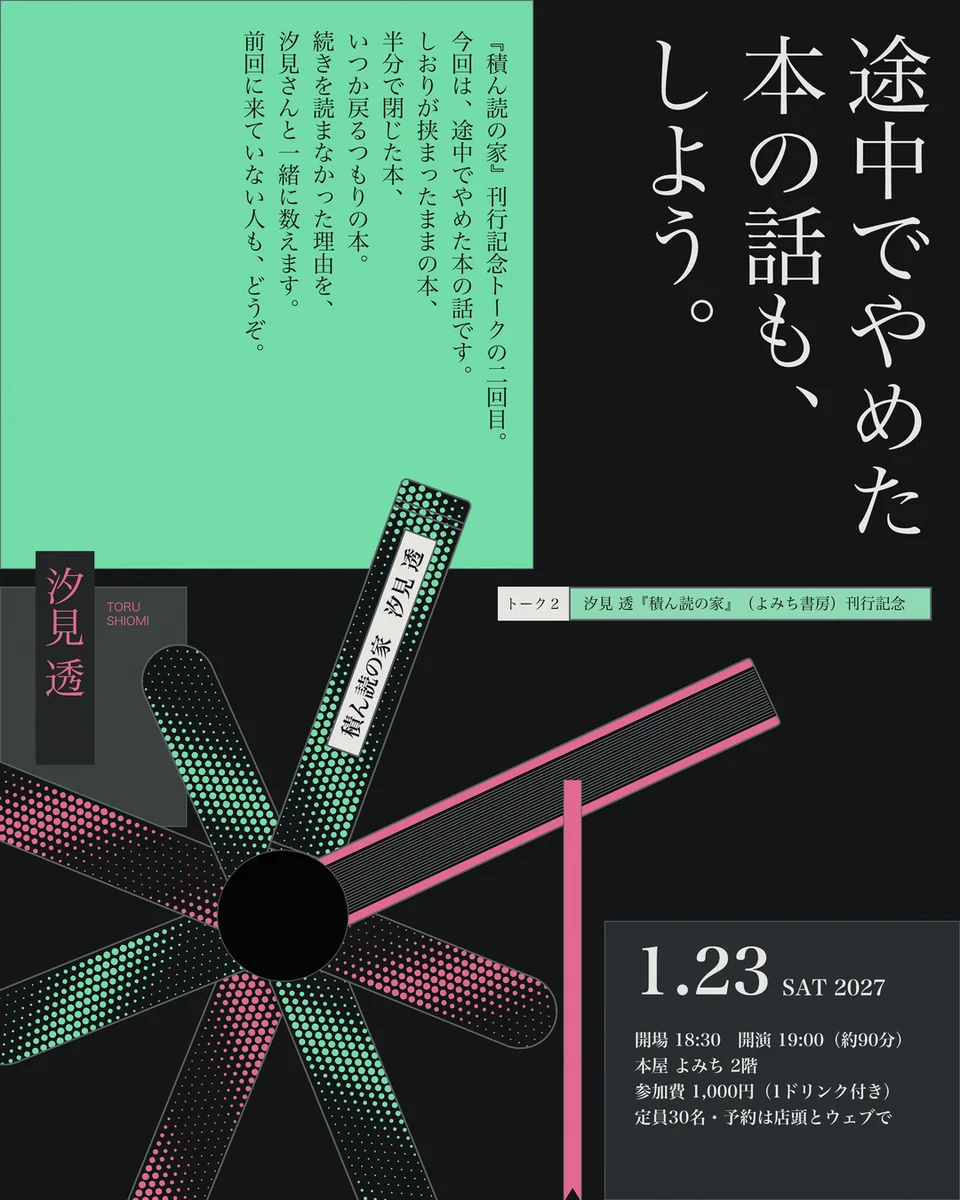
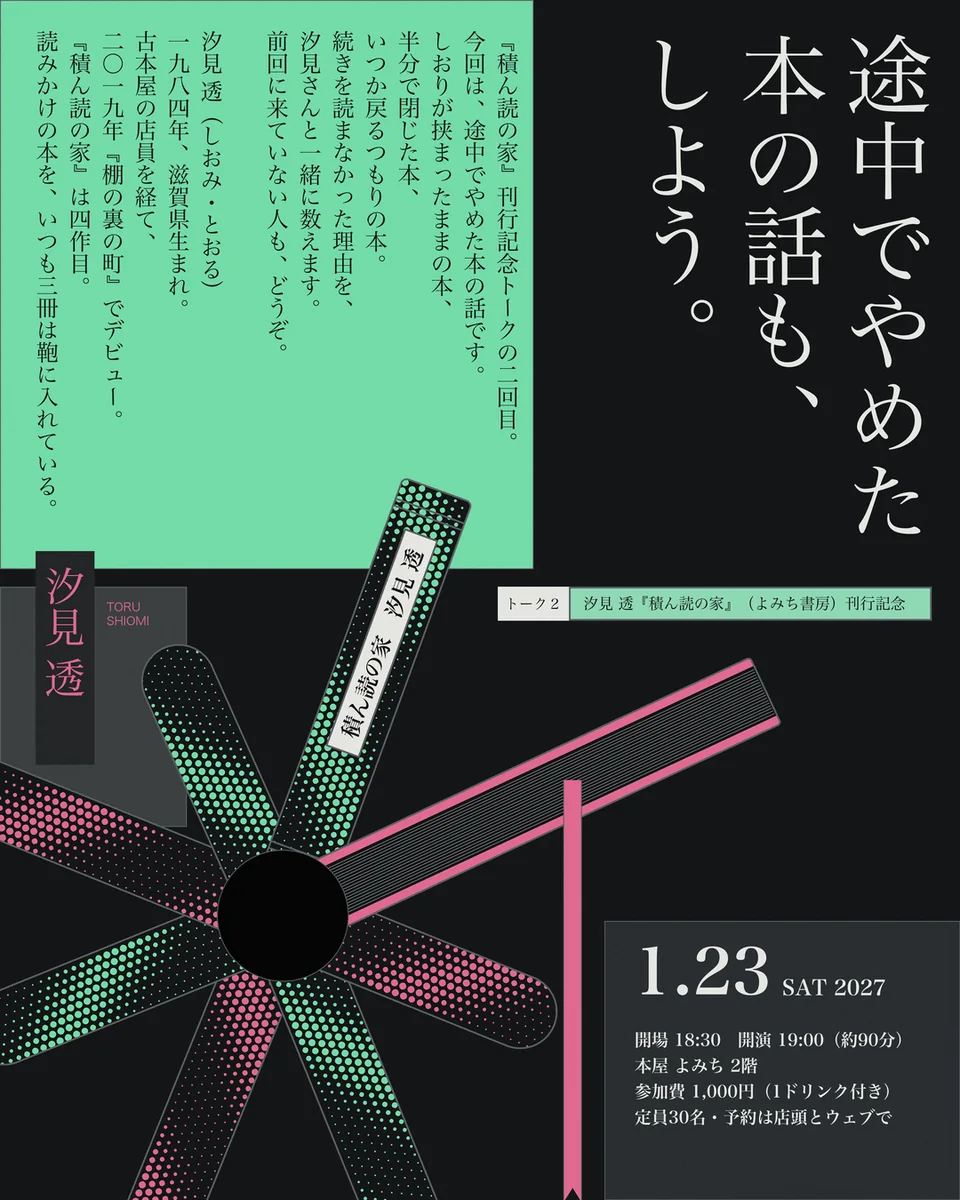
本屋さん向けページ：トーク2枚目の本文に作家の紹介を足し、薄荷の面の左まで埋める
Claude-Session: https://claude.ai/code/session_01TDfKT6QVXjYoevRCepMzQQ

Changed region(s): [[0.0312, 0.0308, 0.5625, 0.4317]]

diff --git a/for-bookstores.html b/for-bookstores.html
@@ -475,7 +475,7 @@
       <p class="work-desc">作家のトークやフェアのたびに、催しの中身を1枚で伝えます。続きの回は、組み方と色を替えながら、同じ催しの続きだと分かるようにつなげます。</p>
       <p class="bk-note">2枚とも架空の作家と架空の本屋「本屋 よみち」の見本です。</p>
     </div>
-    <div class="bk-posters" style="grid-template-columns:repeat(2,1fr)"><img src="assets/img/for-bookstores/talk-01.webp" alt="作家のトークのポスターの見本『読まずに積んだ本の話を、しよう。』（架空の作家・架空の本屋）" width="960" height="1200" loading="lazy"><img src="assets/img/for-bookstores/talk-02.webp" alt="作家のトークのポスターの見本『途中でやめた本の話も、しよう。』（架空の作家・架空の本屋）" width="960" height="1200" loading="lazy"></div>
+    <div class="bk-posters" style="grid-template-columns:repeat(2,1fr)"><img src="assets/img/for-bookstores/talk-01.webp" alt="作家のトークのポスターの見本『読まずに積んだ本の話を、しよう。』（架空の作家・架空の本屋）" width="960" height="1200" loading="lazy"><img src="assets/img/for-bookstores/talk-02.webp?v=20261128b" alt="作家のトークのポスターの見本『途中でやめた本の話も、しよう。』（架空の作家・架空の本屋）" width="960" height="1200" loading="lazy"></div>
   </div>
 
   <div class="bk-item wide">
